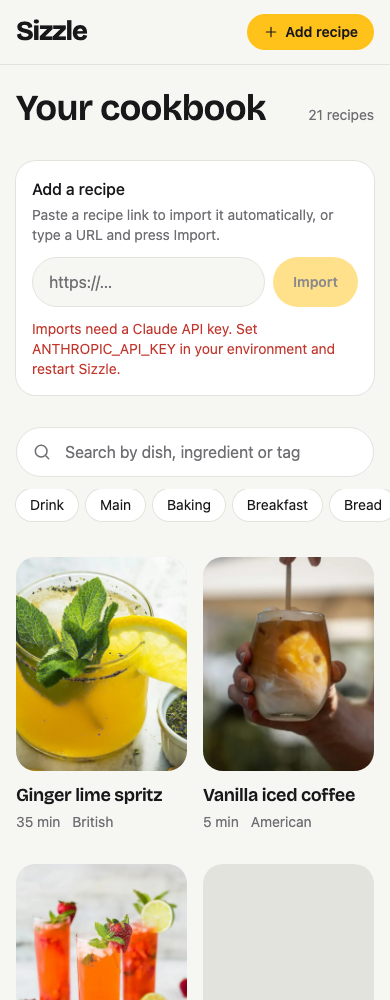
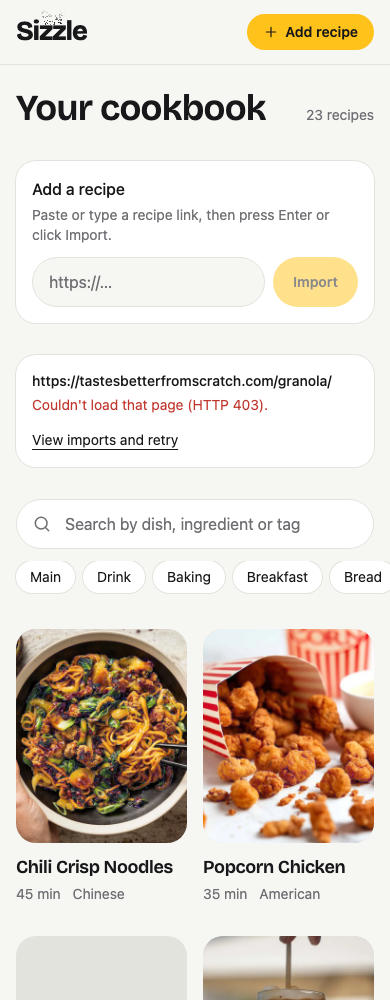
Require Enter or Import before importing recipe URLs

diff --git a/test/browser/url_import.spec.ts b/test/browser/url_import.spec.ts
@@ -7,17 +7,14 @@ test.beforeEach(async ({ context }) => {
   })
 })
 
-async function paste(input: Locator, text: string, times = 1) {
-  await input.evaluate(
-    (element, { text, times }) => {
-      const clipboardData = new DataTransfer()
-      clipboardData.setData('text/plain', text)
-      for (let i = 0; i < times; i++) {
-        element.dispatchEvent(new ClipboardEvent('paste', { clipboardData, bubbles: true, cancelable: true }))
-      }
-    },
-    { text, times },
-  )
+async function paste(input: Locator, text: string) {
+  const allowed = await input.evaluate((element, text) => {
+    const clipboardData = new DataTransfer()
+    clipboardData.setData('text/plain', text)
+    return element.dispatchEvent(new ClipboardEvent('paste', { clipboardData, bubbles: true, cancelable: true }))
+  }, text)
+  // Synthetic paste events do not insert text. Emulate the default edit if allowed.
+  if (allowed) await input.fill(text)
 }
 
 async function galleryFixture(page: Page) {
@@ -77,15 +74,23 @@ async function galleryFixture(page: Page) {
   return { data, item, requests }
 }
 
-for (const width of [390, 1280]) {
-  test(`pasting imports once and polling adds the recipe at ${width}px`, async ({ page }, testInfo) => {
+for (const [width, action] of [
+  [390, 'Enter'],
+  [1280, 'Import'],
+] as const) {
+  test(`pasted URLs wait for ${action} and polling adds the recipe at ${width}px`, async ({ page }, testInfo) => {
     await page.setViewportSize({ width, height: 900 })
     const errors: string[] = []
     page.on('pageerror', (error) => errors.push(error.message))
     const { data, requests } = await galleryFixture(page)
     const input = page.getByRole('textbox', { name: 'Add a recipe', exact: true })
     await expect(input).toBeVisible()
-    await paste(input, '  https://example.com/curry  ', 2)
+    await paste(input, 'https://example.com/curry')
+    await expect(input).toHaveValue('https://example.com/curry')
+    await expect(page.getByRole('button', { name: 'Import', exact: true })).toBeEnabled()
+    expect(requests).toEqual([])
+    if (action === 'Enter') await input.press('Enter')
+    else await page.getByRole('button', { name: 'Import', exact: true }).click()
     await expect(page.getByText('Reading the page', { exact: true })).toBeVisible()
     await expect(input).toHaveValue('')
     expect(requests).toEqual([{ url: 'https://example.com/curry' }])
@@ -131,11 +136,15 @@ test('typing waits for Enter, and background failures stay visible on the galler
   expect(requests).toHaveLength(1)
 })
 
-test('invalid pasted text stays editable and does not start an import', async ({ page }) => {
+test('invalid pasted links validate on Import and stay editable', async ({ page }) => {
   const { requests } = await galleryFixture(page)
   const input = page.getByRole('textbox', { name: 'Add a recipe', exact: true })
-  for (const text of ['not a URL', 'file:///etc/passwd', 'javascript:alert(1)']) {
+  for (const text of ['file:///etc/passwd', 'ftp://example.com/recipe']) {
     await paste(input, text)
+    await expect(page.getByRole('alert')).not.toBeVisible()
+    await expect(input).toHaveValue(text)
+    expect(requests).toEqual([])
+    await page.getByRole('button', { name: 'Import', exact: true }).click()
     await expect(page.getByRole('alert')).toContainText('Paste a complete recipe URL')
     await expect(input).toHaveValue(text)
     await expect(input).toHaveAttribute('aria-invalid', 'true')

diff --git a/app/frontend/components/UrlImportForm.tsx b/app/frontend/components/UrlImportForm.tsx
@@ -42,7 +42,7 @@ export default function UrlImportForm() {
         Add a recipe
       </label>
       <p id="recipe-url-help" className="mt-1 text-sm text-graphite">
-        Paste a recipe link to import it automatically, or type a URL and press Import.
+        Paste or type a recipe link, then press Enter or click Import.
       </p>
       <div className="mt-3 flex gap-2">
         <input
@@ -62,14 +62,6 @@ export default function UrlImportForm() {
           onChange={(event) => {
             form.setData('url', event.target.value)
             form.clearErrors('url')
-          }}
-          onPaste={(event) => {
-            event.preventDefault()
-            if (submitting.current) return
-            const text = event.clipboardData.getData('text').trim()
-            form.setData('url', text)
-            form.clearErrors('url')
-            submit(text)
           }}
           className="min-w-0 flex-1 rounded-full border-hairline bg-porcelain px-4 py-3 text-base placeholder:text-graphite focus:border-ink focus:ring-0"
         />
